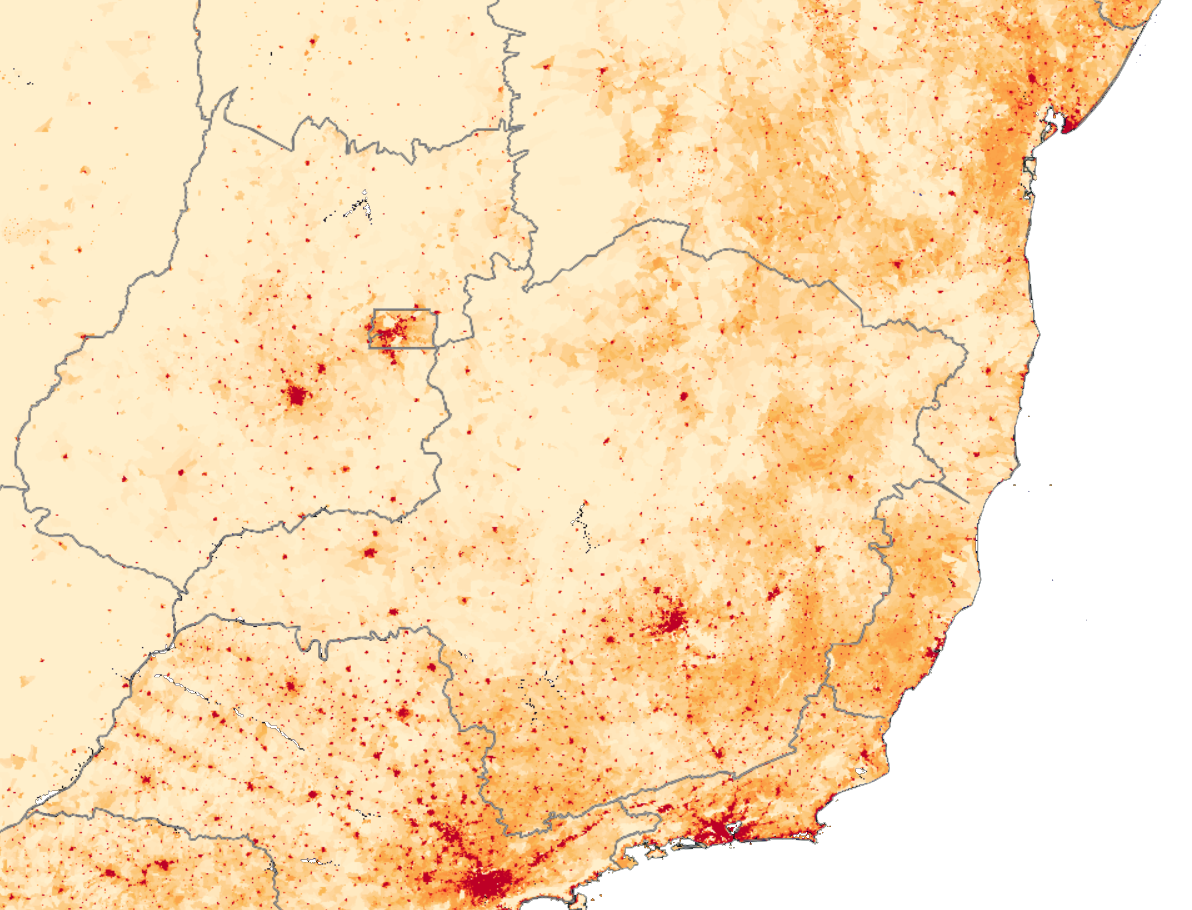
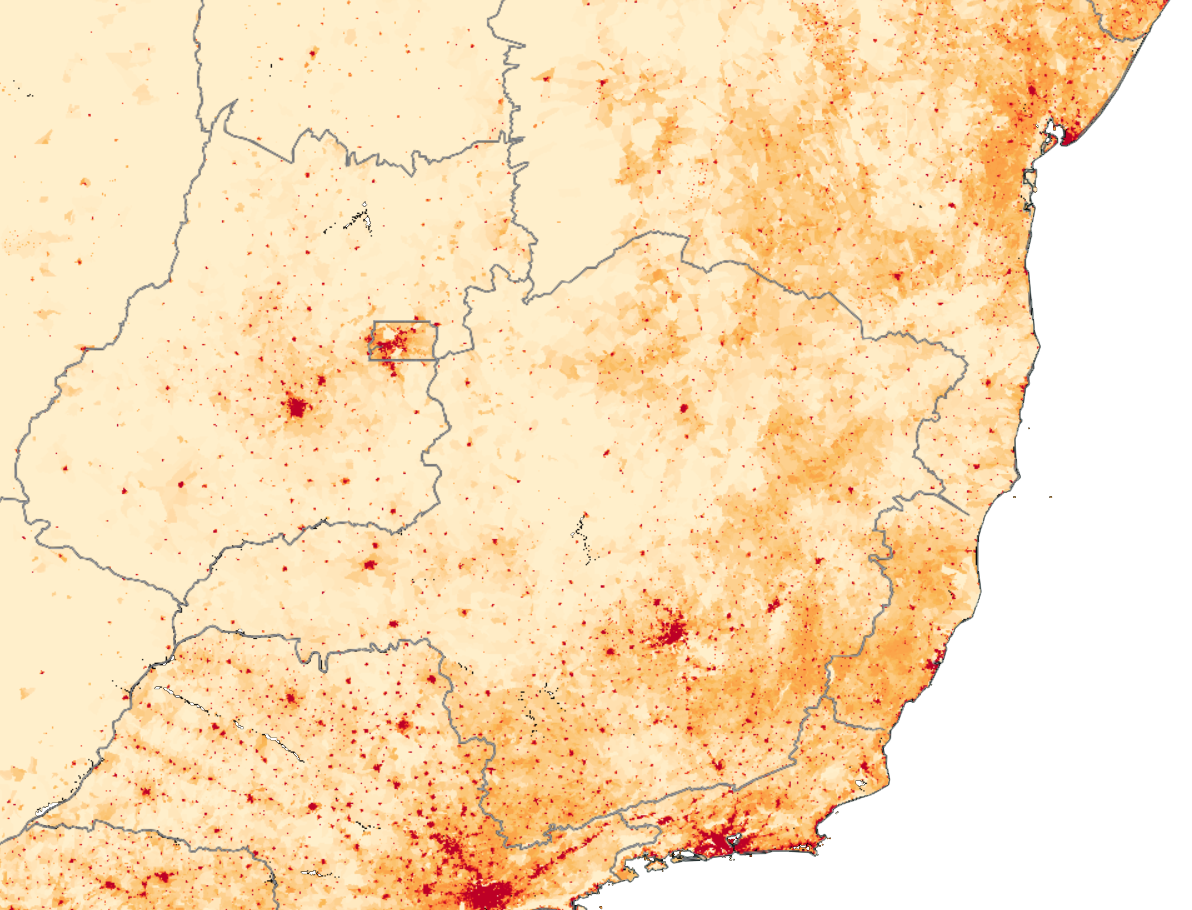
GitBook: [master] 2 pages and 4 assets modified

diff --git a/grads-interface.md b/grads-interface.md
@@ -1,2 +1,225 @@
 # GrADS Interface
 
+### Albedo Index
+
+```text
+ga-> !ls
+ga-> sdfopen MERRA2_400.tavgU_2d_rad_Nx.201908.nc4
+Scanning self-describing file:  MERRA2_400.tavgU_2d_rad_Nx.201908.nc4
+SDF file MERRA2_400.tavgU_2d_rad_Nx.201908.nc4 is open as file 1
+LON set to 0 360
+LAT set to -90 90
+LEV set to 0 0
+Time values set: 2019:8:1:0 2019:8:1:0
+ga-> set t 2
+Time values set: 2019:8:1:1 2019:8:1:1
+ga-> set lon -60 20
+LON set to -60 20
+ga-> q file
+File 1 : MERRA2 tavg1_2d_rad_Nx: 2d,1-Hourly,Time-Averaged,Single-Level,Assimilation,Radiation Diagnostics Diurnal Mean
+  Descriptor: MERRA2_400.tavgU_2d_rad_Nx.201908.nc4
+  Binary: MERRA2_400.tavgU_2d_rad_Nx.201908.nc4
+  Type = Gridded
+  Xsize = 576  Ysize = 361  Zsize = 1  Tsize = 24  Esize = 1
+  Number of Variables = 36
+     albedo  0  t,y,x  surface_albedo
+     albnirdf  0  t,y,x  surface_albedo_for_near_infrared_diffuse
+     albnirdr  0  t,y,x  surface_albedo_for_near_infrared_beam
+     albvisdf  0  t,y,x  surface_albedo_for_visible_diffuse
+     albvisdr  0  t,y,x  surface_albedo_for_visible_beam
+     cldhgh  0  t,y,x  cloud_area_fraction_for_high_clouds
+     cldlow  0  t,y,x  cloud_area_fraction_for_low_clouds
+     cldmid  0  t,y,x  cloud_area_fraction_for_middle_clouds
+     cldtot  0  t,y,x  total_cloud_area_fraction
+     emis  0  t,y,x  surface_emissivity
+     lwgab  0  t,y,x  surface_absorbed_longwave_radiation
+     lwgabclr  0  t,y,x  surface_absorbed_longwave_radiation_assuming_clear_sky
+     lwgabclrcln  0  t,y,x  surface_absorbed_longwave_radiation_assuming_clear_sky_and_no_aerosol
+     lwgem  0  t,y,x  longwave_flux_emitted_from_surface
+     lwgnt  0  t,y,x  surface_net_downward_longwave_flux
+     lwgntclr  0  t,y,x  surface_net_downward_longwave_flux_assuming_clear_sky
+     lwgntclrcln  0  t,y,x  surface_net_downward_longwave_flux_assuming_clear_sky_and_no_aerosol
+     lwtup  0  t,y,x  upwelling_longwave_flux_at_toa
+     lwtupclr  0  t,y,x  upwelling_longwave_flux_at_toa_assuming_clear_sky
+     lwtupclrcln  0  t,y,x  upwelling_longwave_flux_at_toa_assuming_clear_sky_and_no_aerosol
+     swgdn  0  t,y,x  surface_incoming_shortwave_flux
+     swgdnclr  0  t,y,x  surface_incoming_shortwave_flux_assuming_clear_sky
+     swgnt  0  t,y,x  surface_net_downward_shortwave_flux
+     swgntcln  0  t,y,x  surface_net_downward_shortwave_flux_assuming_no_aerosol
+     swgntclr  0  t,y,x  surface_net_downward_shortwave_flux_assuming_clear_sky
+     swgntclrcln  0  t,y,x  surface_net_downward_shortwave_flux_assuming_clear_sky_and_no_aerosol
+     swtdn  0  t,y,x  toa_incoming_shortwave_flux
+     swtnt  0  t,y,x  toa_net_downward_shortwave_flux
+     swtntcln  0  t,y,x  toa_net_downward_shortwave_flux_assuming_no_aerosol
+     swtntclr  0  t,y,x  toa_net_downward_shortwave_flux_assuming_clear_sky
+     swtntclrcln  0  t,y,x  toa_net_downward_shortwave_flux_assuming_clear_sky_and_no_aerosol
+     tauhgh  0  t,y,x  in_cloud_optical_thickness_of_high_clouds(EXPORT)
+     taulow  0  t,y,x  in_cloud_optical_thickness_of_low_clouds
+     taumid  0  t,y,x  in_cloud_optical_thickness_of_middle_clouds
+     tautot  0  t,y,x  in_cloud_optical_thickness_of_all_clouds
+     ts  0  t,y,x  surface_skin_temperature
+ga-> set lon -80 -30
+LON set to -80 -30
+ga-> set lat -60 20
+LAT set to -60 20
+ga-> set display color white
+ga-> c
+ga-> set grads off
+ga-> d emis
+Contouring: 0.95 to 0.995 interval 0.005
+ga-> draw title Albedo
+ga-> cbarn.gs
+ga-> draw xlab Longitude
+ga-> draw ylab Latitude
+ga-> printim Albedo.gif white
+ga-> !ls
+Albedo.gif                             model.ctl
+MERRA2_400.tavgU_2d_rad_Nx.201908.nc4  model.grb
+ga-> !ls
+Albedo.gif                             model.ctl
+MERRA2_400.tavgU_2d_lnd_Nx.201908.nc4  model.gmp
+MERRA2_400.tavgU_2d_rad_Nx.201908.nc4  model.grb
+ga-> sdfopen MERRA2_400.tavgU_2d_lnd_Nx.201908.nc4
+Scanning self-describing file:  MERRA2_400.tavgU_2d_lnd_Nx.201908.nc4
+SDF file MERRA2_400.tavgU_2d_lnd_Nx.201908.nc4 is open as file 2
+ga-> q file
+File 1 : MERRA2 tavg1_2d_rad_Nx: 2d,1-Hourly,Time-Averaged,Single-Level,Assimilation,Radiation Diagnostics Diurnal Mean
+  Descriptor: MERRA2_400.tavgU_2d_rad_Nx.201908.nc4
+  Binary: MERRA2_400.tavgU_2d_rad_Nx.201908.nc4
+  Type = Gridded
+  Xsize = 576  Ysize = 361  Zsize = 1  Tsize = 24  Esize = 1
+  Number of Variables = 36
+     albedo  0  t,y,x  surface_albedo
+     albnirdf  0  t,y,x  surface_albedo_for_near_infrared_diffuse
+     albnirdr  0  t,y,x  surface_albedo_for_near_infrared_beam
+     albvisdf  0  t,y,x  surface_albedo_for_visible_diffuse
+     albvisdr  0  t,y,x  surface_albedo_for_visible_beam
+     cldhgh  0  t,y,x  cloud_area_fraction_for_high_clouds
+     cldlow  0  t,y,x  cloud_area_fraction_for_low_clouds
+     cldmid  0  t,y,x  cloud_area_fraction_for_middle_clouds
+     cldtot  0  t,y,x  total_cloud_area_fraction
+     emis  0  t,y,x  surface_emissivity
+     lwgab  0  t,y,x  surface_absorbed_longwave_radiation
+     lwgabclr  0  t,y,x  surface_absorbed_longwave_radiation_assuming_clear_sky
+     lwgabclrcln  0  t,y,x  surface_absorbed_longwave_radiation_assuming_clear_sky_and_no_aerosol
+     lwgem  0  t,y,x  longwave_flux_emitted_from_surface
+     lwgnt  0  t,y,x  surface_net_downward_longwave_flux
+     lwgntclr  0  t,y,x  surface_net_downward_longwave_flux_assuming_clear_sky
+     lwgntclrcln  0  t,y,x  surface_net_downward_longwave_flux_assuming_clear_sky_and_no_aerosol
+     lwtup  0  t,y,x  upwelling_longwave_flux_at_toa
+     lwtupclr  0  t,y,x  upwelling_longwave_flux_at_toa_assuming_clear_sky
+     lwtupclrcln  0  t,y,x  upwelling_longwave_flux_at_toa_assuming_clear_sky_and_no_aerosol
+     swgdn  0  t,y,x  surface_incoming_shortwave_flux
+     swgdnclr  0  t,y,x  surface_incoming_shortwave_flux_assuming_clear_sky
+     swgnt  0  t,y,x  surface_net_downward_shortwave_flux
+     swgntcln  0  t,y,x  surface_net_downward_shortwave_flux_assuming_no_aerosol
+     swgntclr  0  t,y,x  surface_net_downward_shortwave_flux_assuming_clear_sky
+     swgntclrcln  0  t,y,x  surface_net_downward_shortwave_flux_assuming_clear_sky_and_no_aerosol
+     swtdn  0  t,y,x  toa_incoming_shortwave_flux
+     swtnt  0  t,y,x  toa_net_downward_shortwave_flux
+     swtntcln  0  t,y,x  toa_net_downward_shortwave_flux_assuming_no_aerosol
+     swtntclr  0  t,y,x  toa_net_downward_shortwave_flux_assuming_clear_sky
+     swtntclrcln  0  t,y,x  toa_net_downward_shortwave_flux_assuming_clear_sky_and_no_aerosol
+     tauhgh  0  t,y,x  in_cloud_optical_thickness_of_high_clouds(EXPORT)
+     taulow  0  t,y,x  in_cloud_optical_thickness_of_low_clouds
+     taumid  0  t,y,x  in_cloud_optical_thickness_of_middle_clouds
+     tautot  0  t,y,x  in_cloud_optical_thickness_of_all_clouds
+     ts  0  t,y,x  surface_skin_temperature
+```
+
+### Output:
+
+![Albedo](.gitbook/assets/albedograds.jpeg)
+
+### Population Density Index
+
+```text
+ga-> q file 2
+File 2 : MERRA2 tavg1_2d_lnd_Nx: 2d,1-Hourly,Time-Averaged,Single-Level,Assimilation,Land Surface Diagnostics Diurnal Mean
+  Descriptor: MERRA2_400.tavgU_2d_lnd_Nx.201908.nc4
+  Binary: MERRA2_400.tavgU_2d_lnd_Nx.201908.nc4
+  Type = Gridded
+  Xsize = 576  Ysize = 361  Zsize = 1  Tsize = 24  Esize = 1
+  Number of Variables = 50
+     baseflow  0  t,y,x  baseflow_flux
+     echange  0  t,y,x  rate_of_change_of_total_land_energy
+     evland  0  t,y,x  Evaporation_land
+     evpintr  0  t,y,x  interception_loss_energy_flux
+     evpsbln  0  t,y,x  snow_ice_evaporation_energy_flux
+     evpsoil  0  t,y,x  baresoil_evap_energy_flux
+     evptrns  0  t,y,x  transpiration_energy_flux
+     frsat  0  t,y,x  fractional_area_of_saturated_zone
+     frsno  0  t,y,x  fractional_area_of_land_snowcover
+     frunst  0  t,y,x  fractional_area_of_unsaturated_zone
+     frwlt  0  t,y,x  fractional_area_of_wilting_zone
+     ghland  0  t,y,x  Ground_heating_land
+     grn  0  t,y,x  greeness_fraction
+     gwetprof  0  t,y,x  ave_prof_soil_moisture
+     gwetroot  0  t,y,x  root_zone_soil_wetness
+     gwettop  0  t,y,x  surface_soil_wetness
+     lai  0  t,y,x  leaf_area_index
+     lhland  0  t,y,x  Latent_heat_flux_land
+     lwland  0  t,y,x  Net_longwave_land
+     pardfland  0  t,y,x  surface_downwelling_par_diffuse_flux
+     pardrland  0  t,y,x  surface_downwelling_par_beam_flux
+     precsnoland  0  t,y,x  snowfall_land
+     prectotland  0  t,y,x  Total_precipitation_land
+     prmc  0  t,y,x  water_profile
+     qinfil  0  t,y,x  Soil_water_infiltration_rate
+     runoff  0  t,y,x  overland_runoff_including_throughflow
+     rzmc  0  t,y,x  water_root_zone
+     sfmc  0  t,y,x  water_surface_layer
+     shland  0  t,y,x  Sensible_heat_flux_land
+     smland  0  t,y,x  Snowmelt_flux_land
+     snodp  0  t,y,x  snow_depth
+     snomas  0  t,y,x  Total_snow_storage_land
+     spland  0  t,y,x  rate_of_spurious_land_energy_source
+     spsnow  0  t,y,x  rate_of_spurious_snow_energy
+     spwatr  0  t,y,x  rate_of_spurious_land_water_source
+     swland  0  t,y,x  Net_shortwave_land
+     teland  0  t,y,x  Total_energy_storage_land
+     tpsnow  0  t,y,x  surface_temperature_of_snow
+     tsat  0  t,y,x  surface_temperature_of_saturated_zone
+     tsoil1  0  t,y,x  soil_temperatures_layer_1
+     tsoil2  0  t,y,x  soil_temperatures_layer_2
+     tsoil3  0  t,y,x  soil_temperatures_layer_3
+     tsoil4  0  t,y,x  soil_temperatures_layer_4
+     tsoil5  0  t,y,x  soil_temperatures_layer_5
+     tsoil6  0  t,y,x  soil_temperatures_layer_6
+     tsurf  0  t,y,x  surface_temperature_of_land_incl_snow
+     tunst  0  t,y,x  surface_temperature_of_unsaturated_zone
+     twland  0  t,y,x  Avail_water_storage_land
+     twlt  0  t,y,x  surface_temperature_of_wilted_zone
+     wchange  0  t,y,x  rate_of_change_of_total_land_water
+ga-> d grn.2
+Contouring: 0 to 0.9 interval 0.1
+ga-> c
+ga-> d grn.2
+Contouring: 0 to 0.9 interval 0.1
+ga-> cbarn.gs
+ga-> c
+ga-> d qinfil.2
+Contouring: 0 to 9e-05 interval 1e-05
+ga-> cbarn.gs
+ga-> draw xlab Longitude
+ga-> draw ylab Latitude
+ga-> draw title Taxa de Infiltracao de agua no Solo
+ga-> printim taxainfiltaguasolo.gif white
+ga-> c
+ga-> d twland.2
+Contouring: 200 to 2000 interval 200
+ga-> cbarn.gs
+ga-> draw ylab Latitude
+ga-> draw xlab Longitude
+ga-> draw title Disponibilidade de Solo Armazenador de Agua
+ga-> printim diponibsoloarmazenador.gif white
+```
+
+### Output:
+
+![Populational  Density Index](.gitbook/assets/pop_density_grads.jpeg)
+
+
+
+
+

diff --git a/README.md b/README.md
@@ -25,12 +25,9 @@ We aim to provide a prioritization basis for promoting vegetation recovery and c
 
 ### Where has the dataset been found?
 
-The links below contains the utilized datasets and those respective APIs:
+The link below contains the utilized datasets and those respective APIs:
 
 * [Distributed Active Archive Center \(DAAC\) APIs](https://earthdata.nasa.gov/collaborate/open-data-services-and-software/api/daac-apis)
-* [Albedo Index - MODIS Web Service](https://modis.ornl.gov/data/modis_webservice_soap.html)
-* [Population Density Index - SEDAC REST services](https://sedac.ciesin.columbia.edu/arcgis/rest/services/sedac?_ga=2.68266456.87660087.1571488656-1154313842.1571488656)
-* [Soil Moisture Index - NSIDC](https://nsidc.org/api?_ga=2.138969850.87660087.1571488656-1154313842.1571488656)
 
 #### The datasets looks like these images below:
 
@@ -40,6 +37,12 @@ The links below contains the utilized datasets and those respective APIs:
 
 ![Soil Moisture Index](.gitbook/assets/soil_moisture_transp.png)
 
+### Development tools:
+
+* OpenGrADS
+* Pygrads Lib
+* Python 3.7.4
+
 ### How the data gathering and green infrastructures could be integrated in a unique solution?
 
 It is a simple concept which follows the steps mentioned before. First we collect the raw data from NASA's databases, after that this data will go through a "pipeline". The basic function of that pipeline is to gather diferent types of data indexes and combine them to create a new index. Our challenge for the next step is to rank the areas with most desertification risk. Using that information we can priorize some places. Finally when a region is selected, the tool will provide the best place in a determinated radius to implement a green infrastructure. It's important to say here that our tool doesn't determinate the best green infrastructure, instead it shows a point within the radius in which such infrastructure will provide the best results on the desertified area, based in the data.
@@ -48,5 +51,5 @@ It is a simple concept which follows the steps mentioned before. First we collec
 
 Set the math equation here.
 
-#### 
+
 
